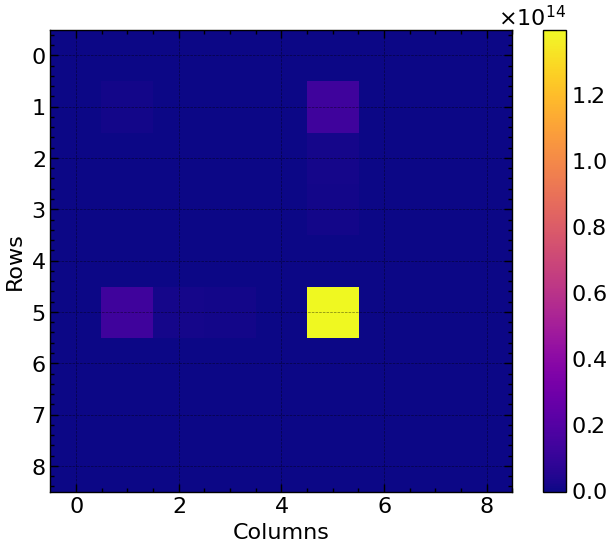
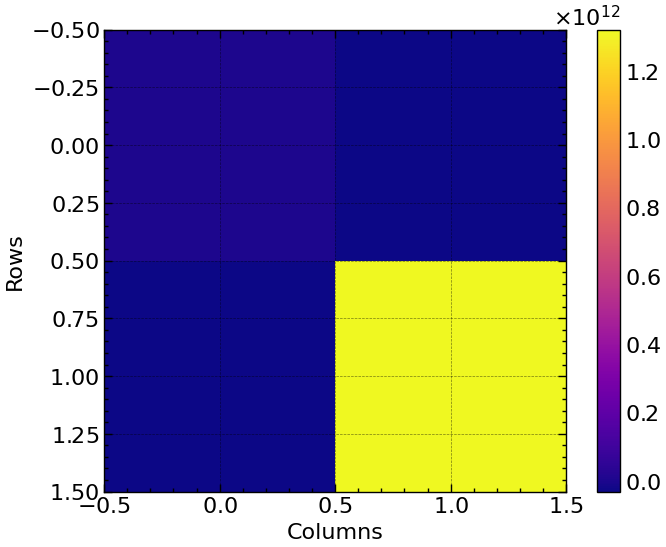
Config, plot regenerate

diff --git a/main.py b/main.py
@@ -18,9 +18,6 @@ mock_waveform_theta = jnp.array(
     [28.0956, 0.2471, 0.0, 0.0, 40.0, 0.0, 0.0, 0.0, 0.0])
 mock_theta = jnp.tile(mock_waveform_theta, (theta_repo.shape[0], 1))
 
-print(mc_repo.shape)
-print(mr_repo.shape)
-print(f"Total shape: {theta_repo.shape}")
 # %%
 # Section 1.b -  Mock GW data generate - waveform, grad, plots
 # t ~ 4min06.9s - first compile
@@ -34,7 +31,7 @@ gw_plotter.ripple_grad_plot_idx(mock_hp_grad, mock_hc_grad, f_sig, *mock_idx)
 # %%
 # Section 1.c - Mock GW data generate - FIM, sqrt.det.fim, plots
 data_idx = jnp.arange(len(mock_waveform_theta))
-mock_fim = gw_fisher.build_fim(mock_hp_grad, data_idx)
+mock_fim = gw_fisher.build_fim(mock_hp_grad, mock_idx)
 mock_fim_sqrtdet = gw_fisher.sqrtdet_fim(mock_hp_grad, mock_idx)
 gw_plotter.fim_plot(mock_fim)
 gw_plotter.bilby_plot(f_sig, f_psd)

diff --git a/data/gw_config.py b/data/gw_config.py
@@ -16,9 +16,9 @@ import bilby
 # Frequency - min, max, step
 f_min, f_max, f_del = 24.0, 512.0, 0.50
 # Chirp mass - min, max, step
-mc_min, mc_max, mc_del = 6.00, 31.0, 0.5
+mc_min, mc_max, mc_del = 6.00, 31.0, 1.0
 # Mass ratio - min, max, step
-mr_min, mr_max, mr_del = 0.06, 0.26, 0.01
+mr_min, mr_max, mr_del = 0.01, 0.26, 0.01
 # Base theta - s1, s2, dist_mpc, c_time, c_phas, ang_inc, and_pol
 theta_base = jnp.array([0.0, 0.0, 40.0, 0.0, 0.0, 0.0, 0.0])
 # ============================================================ #
